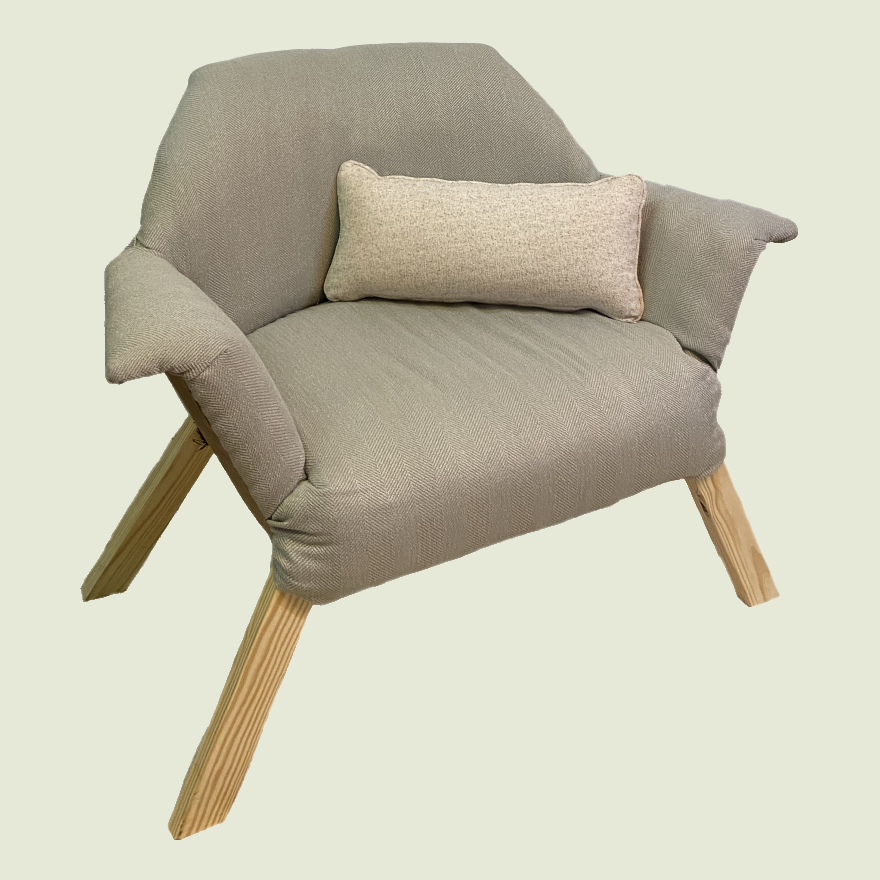
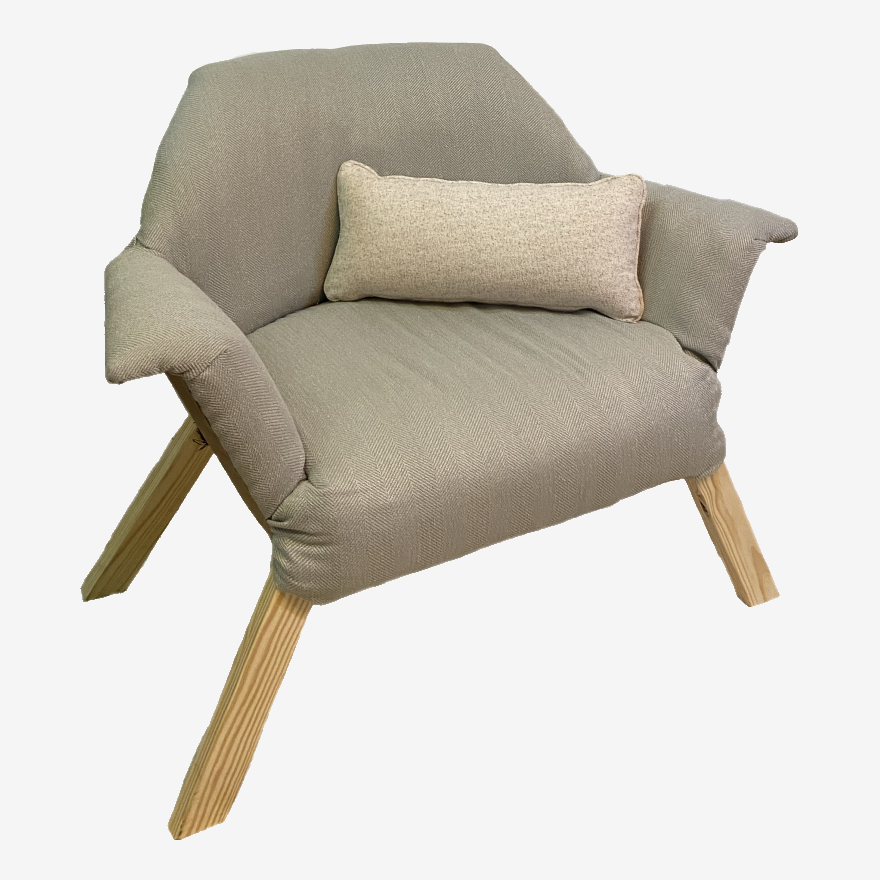
Added background and drop shadow

diff --git a/css/style.css b/css/style.css
@@ -1,10 +1,17 @@
 body {
     margin: var(--spacing);
-    background-color: var(--color1);
+    background-image: url('../media/background.png');
+    background-position: center;
+    background-size: 2500px;
+    background-repeat: repeat;
+    /* background-color: var(--color1); */
+    background-color: rgba(255, 255, 255, 0.8);
+    background-blend-mode: lighten;
 }
 
 body>div {
     margin: var(--spacing) 0;
+    filter: drop-shadow(0 0 var(--rounded) rgba(0, 0, 0, 0.2));
 }
 
 hr {
@@ -20,7 +27,11 @@ hr {
 }
 
 #description {
-    padding: 0 10vw;
+    /* padding: 0 10vw; */
+    margin-left: 10vw;
+    margin-right: 10vw;
+    padding: calc(var(--spacing) / 2);
+    background-color: var(--color1);
     text-indent: calc(var(--spacing) * 2);
 }
 

diff --git a/index.html b/index.html
@@ -65,8 +65,6 @@
     </div>
     <hr style="border-color: var(--color3);">
     <hr style="border-color: var(--color4);">
-
-    <!-- <script src="js/shapes.js"></script> -->
 </body>
 
 </html>
